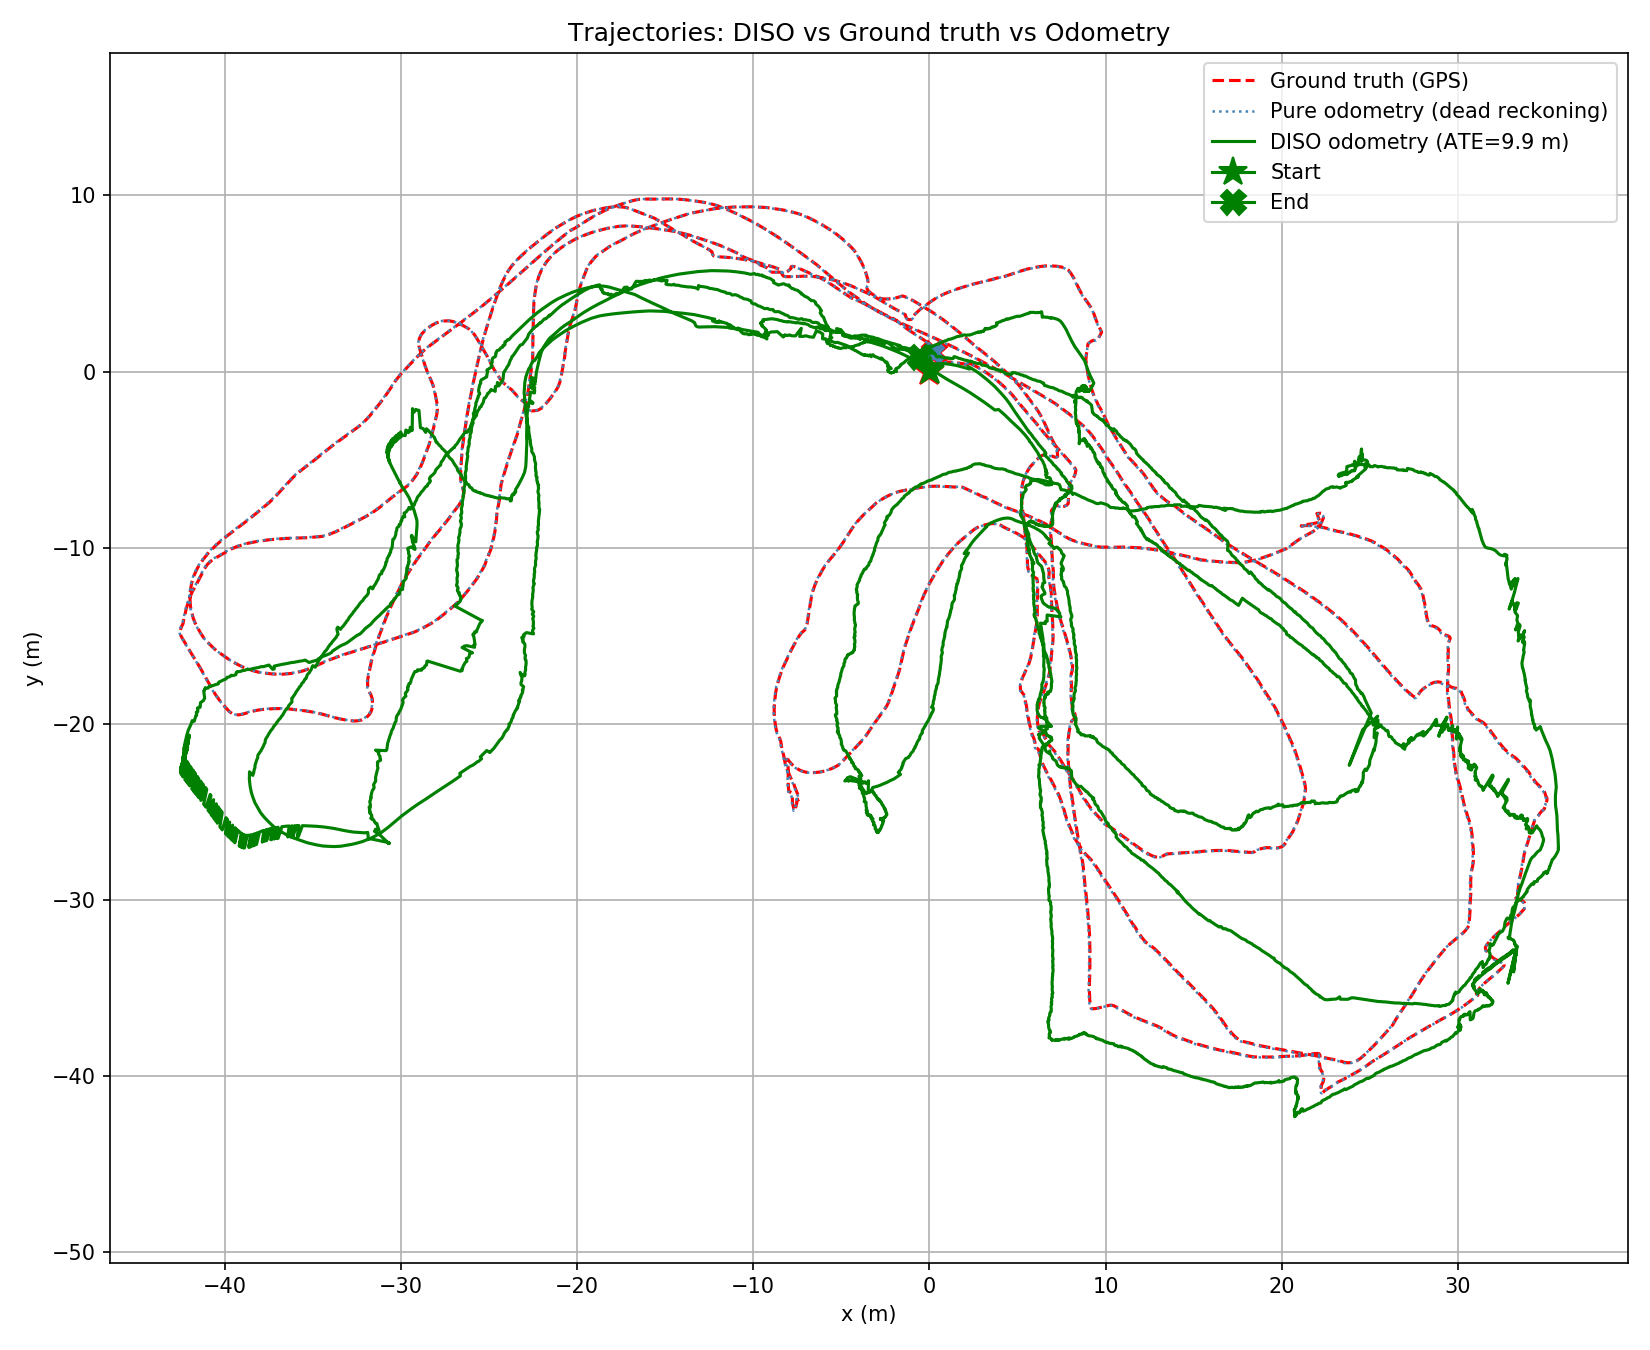
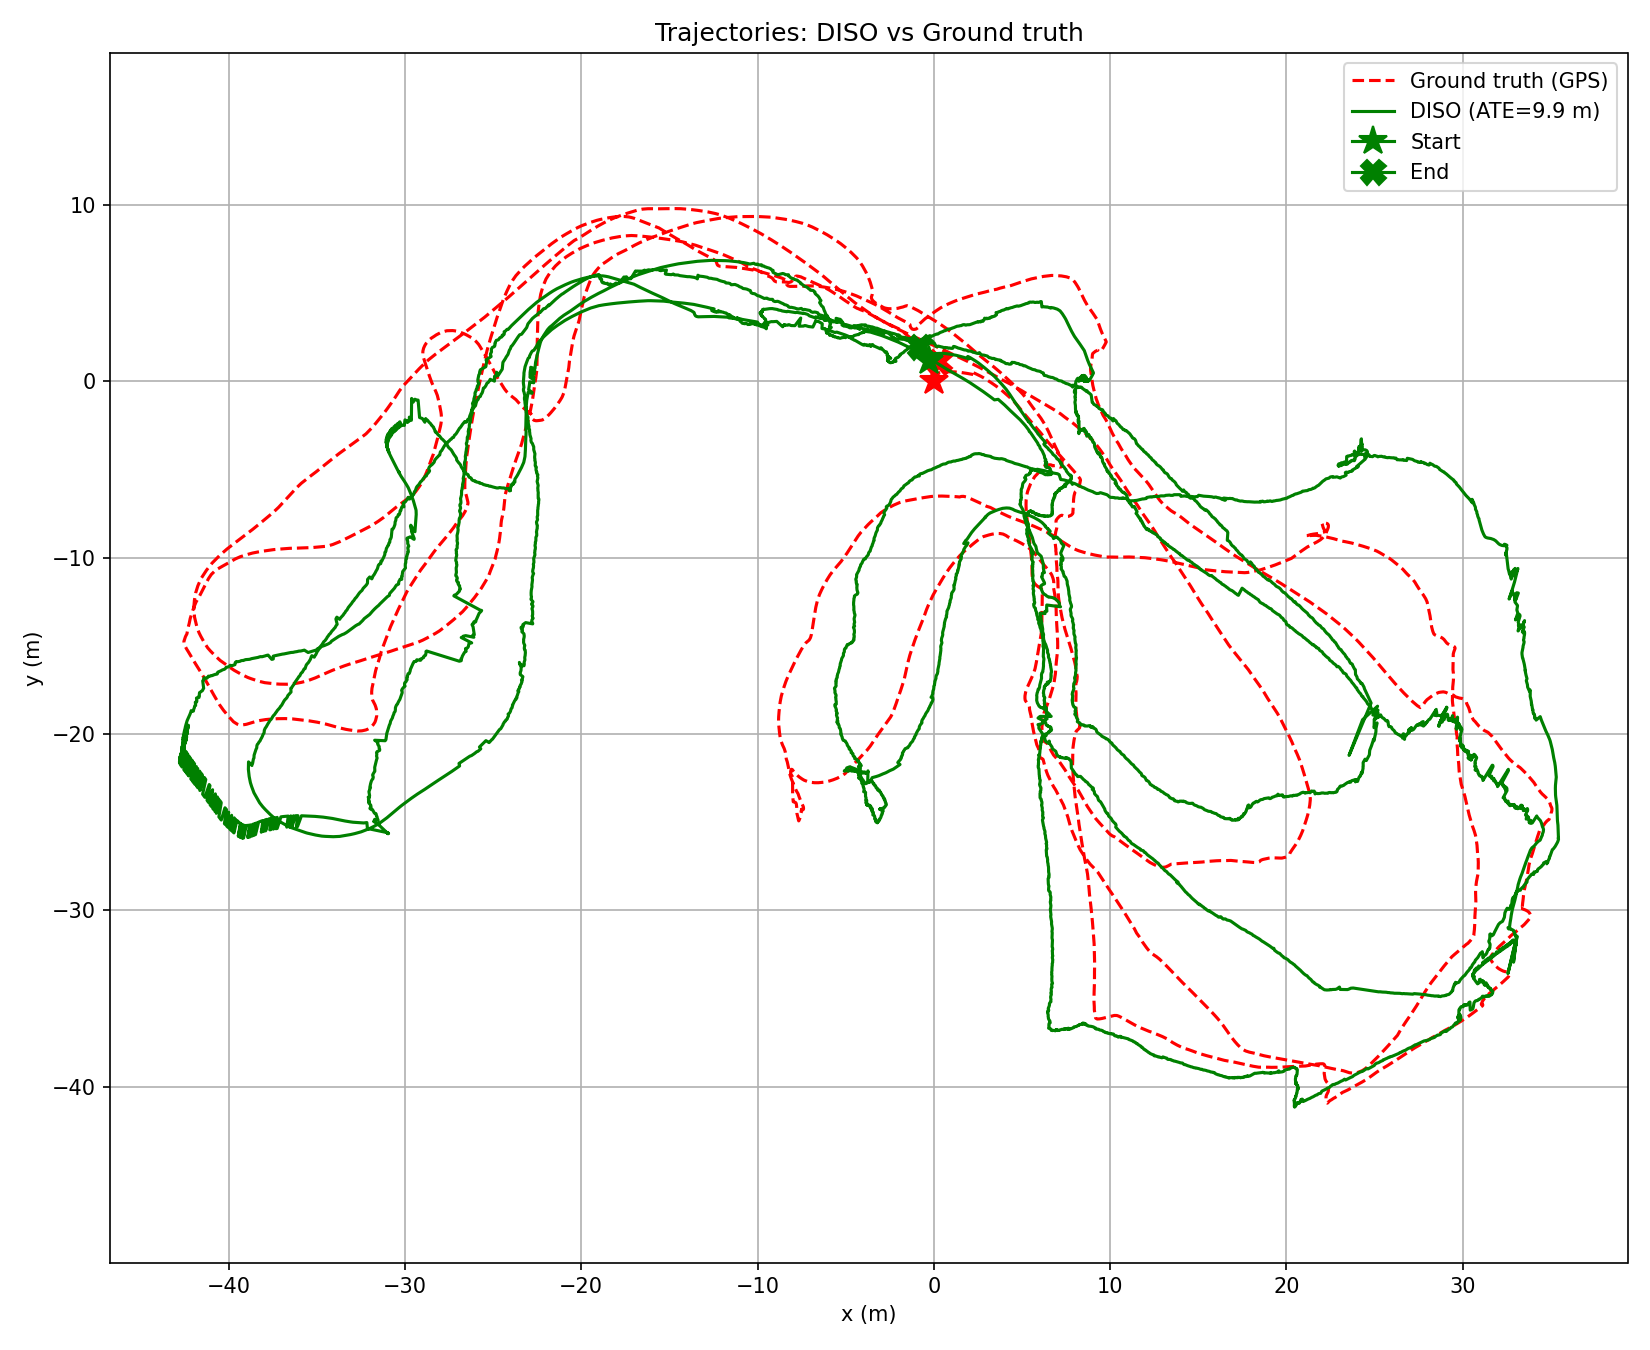
Plot Traj + Cloudpoint

diff --git a/analyze_diso.py b/analyze_diso.py
@@ -1,9 +1,8 @@
 #!/usr/bin/env python3
 """
-Generate 3 plots from DISO results:
-  1. Trajectories: GT + pure odom + DISO
+Generate 2 plots from DISO results:
+  1. Trajectories: GT + DISO
   2. Point cloud map
-  3. Point cloud + trajectories overlay
 """
 import pandas as pd
 import numpy as np
@@ -21,7 +20,6 @@ def load(name):
     return pd.read_csv(path)
 
 traj  = load("diso_trajectory.csv")
-odom  = load("diso_odom.csv")
 gt    = load("groundtruth.csv")
 cloud = load("diso_pointcloud.csv")
 
@@ -29,31 +27,22 @@ if traj is None:
     print("ERROR: diso_trajectory.csv missing — run DISO and CTRL+C first")
     exit(1)
 
-# ── Alignment: flip Y, rotate, translate ─────────────────────────────────────
 tx, ty = traj["x"].to_numpy(), traj["y"].to_numpy()
 gx, gy = gt["x"].to_numpy(),   gt["y"].to_numpy()
 
-# Flip Y
+# ── Alignment DISO → GT: flip Y, rotate by centroid angle, translate ─────────
 ty_f = -ty
 
-# Rotate by centroid angle difference
 diso_angle = np.arctan2(ty_f.mean(), tx.mean())
 gt_angle   = np.arctan2(gy.mean(),   gx.mean())
 theta = gt_angle - diso_angle
 c, s = np.cos(theta), np.sin(theta)
 R = np.array([[c, -s], [s, c]])
 
-# Compute translation: align centroids after rotation
 rotated = (R @ np.stack([tx, ty_f])).T
 t_vec = np.array([gx.mean(), gy.mean()]) - rotated.mean(axis=0)
-
-def apply_transform(x, y):
-    """Flip Y, rotate R, translate t_vec."""
-    yf = -y
-    aligned = (R @ np.stack([x, yf])).T + t_vec
-    return aligned[:, 0], aligned[:, 1]
-
-tx_a, ty_a = apply_transform(tx, ty)
+tx_a = rotated[:, 0] + t_vec[0]
+ty_a = rotated[:, 1] + t_vec[1]
 
 # ATE
 idx = np.round(np.linspace(0, len(gx)-1, len(tx_a))).astype(int)
@@ -64,13 +53,10 @@ fig1, ax1 = plt.subplots(figsize=(11, 9))
 ax1.plot(gx, gy, label="Ground truth (GPS)", color="red", linestyle="--", linewidth=1.5)
 ax1.plot(gx[0], gy[0], marker="*", color="red", markersize=14)
 ax1.plot(gx[-1], gy[-1], marker="X", color="red", markersize=12)
-
-
-ax1.plot(tx_a, ty_a, label=f"DISO odometry (ATE={ate:.1f} m)", color="green", linewidth=1.5)
+ax1.plot(tx_a, ty_a, label=f"DISO (ATE={ate:.1f} m)", color="green", linewidth=1.5)
 ax1.plot(tx_a[0],  ty_a[0],  marker="*", color="green", markersize=14, label="Start")
 ax1.plot(tx_a[-1], ty_a[-1], marker="X", color="green", markersize=12, label="End")
-
-ax1.set_title("Trajectories: DISO vs Ground truth vs Odometry")
+ax1.set_title("Trajectories: DISO vs Ground truth")
 ax1.set_xlabel("x (m)"); ax1.set_ylabel("y (m)")
 ax1.legend(); ax1.axis("equal"); ax1.grid(True)
 plt.tight_layout()
@@ -81,13 +67,9 @@ print(f"Saved: {out1}")
 # ── Figure 2: Point cloud ─────────────────────────────────────────────────────
 if cloud is not None:
     cx, cy = cloud["x"].to_numpy(), cloud["y"].to_numpy()
-    # Correct offset between cloud and trajectory raw centroids before transform
-    cx = cx - (cx.mean() - tx.mean())
-    cy = cy - (cy.mean() - ty.mean())
-    cx_a, cy_a = apply_transform(cx, cy)
 
     fig2, ax2 = plt.subplots(figsize=(11, 9))
-    ax2.scatter(cx_a, cy_a, s=0.5, c="green", alpha=0.4, label="Sonar landmarks")
+    ax2.scatter(cx, cy, s=0.5, c="green", alpha=0.4, label="Sonar landmarks")
     ax2.set_title("DISO Point cloud map")
     ax2.set_xlabel("x (m)"); ax2.set_ylabel("y (m)")
     ax2.legend(); ax2.axis("equal"); ax2.grid(True)
@@ -95,20 +77,5 @@ if cloud is not None:
     out2 = os.path.join(results_dir, "plot2_pointcloud.png")
     fig2.savefig(out2, dpi=150)
     print(f"Saved: {out2}")
-
-    # ── Figure 3: Point cloud + trajectories ─────────────────────────────────
-    fig3, ax3 = plt.subplots(figsize=(11, 9))
-    ax3.scatter(cx_a, cy_a, s=0.5, c="lightgreen", alpha=0.3, label="Sonar landmarks")
-    ax3.plot(gx, gy, label="Ground truth", color="red", linestyle="--", linewidth=1.5)
-    ax3.plot(tx_a, ty_a, label=f"DISO (ATE={ate:.1f} m)", color="green", linewidth=1.5)
-    ax3.plot(tx_a[0], ty_a[0], marker="*", color="green", markersize=14, label="Start")
-    ax3.plot(tx_a[-1], ty_a[-1], marker="X", color="green", markersize=12, label="End")
-    ax3.set_title("DISO Point cloud + Trajectories")
-    ax3.set_xlabel("x (m)"); ax3.set_ylabel("y (m)")
-    ax3.legend(); ax3.axis("equal"); ax3.grid(True)
-    plt.tight_layout()
-    out3 = os.path.join(results_dir, "plot3_map_trajectories.png")
-    fig3.savefig(out3, dpi=150)
-    print(f"Saved: {out3}")
 
 plt.show()